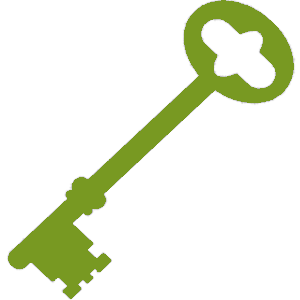
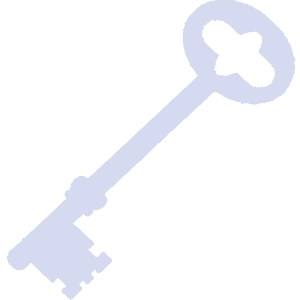
Adding to testing branch

Changed region(s): [[0.03, 0.0, 0.99, 1.0]]

diff --git a/index.html b/index.html
@@ -14,21 +14,21 @@
             @import 'https://fonts.googleapis.com/css?family=Bungee';
 
             body {
-                background-color: #F0E0D6;
-                color: #FFFFEE;
+                background-color: #EEF2FF;
+                color: #3377A4;
                 text-align: center;
                 font-family: 'Bungee';
                 font-size: 20pt;
             }
 
             img {
-                padding-left: 20px;
-                padding-right: 20px;
+                padding-left: 15px;
+                padding-right: 15px;
             }
 
             img.icon {
-                width: 100px;
-                height: 100px;
+                width: 110px;
+                height: 110px;
             }
 
             div#sightings {
@@ -50,12 +50,12 @@
         <div id="sightings">
             <a href="https://keybase.io/encrypted/key.asc"><img src="res/png/key.png" class="icon" alt="Keybase"></a>
             <a href="https://github.com/laika"><img src="res/png/github.png" class="icon" alt="GitHub"></a>
-            <img src="res/png/guts.png" alt="laika.wtf">
+            <img src="res/png/mercury.png" alt="laika.wtf">
             <a href="https://steamcommunity.com/profiles/76561198043839425"><img src="res/png/steam.png" class="icon" alt="Steam"></a>
             <a href="mailto:orbit@laika.wtf"><img src="res/png/male.png" class="icon" alt="Email"></a>
         </div>
         <div id="muh-freedoms">
-            © 2016 laika.wtf - Some Rights Reserved
+            © 2017 laika.wtf - Some Rights Reserved
         </div>
     </body>
 </html>
